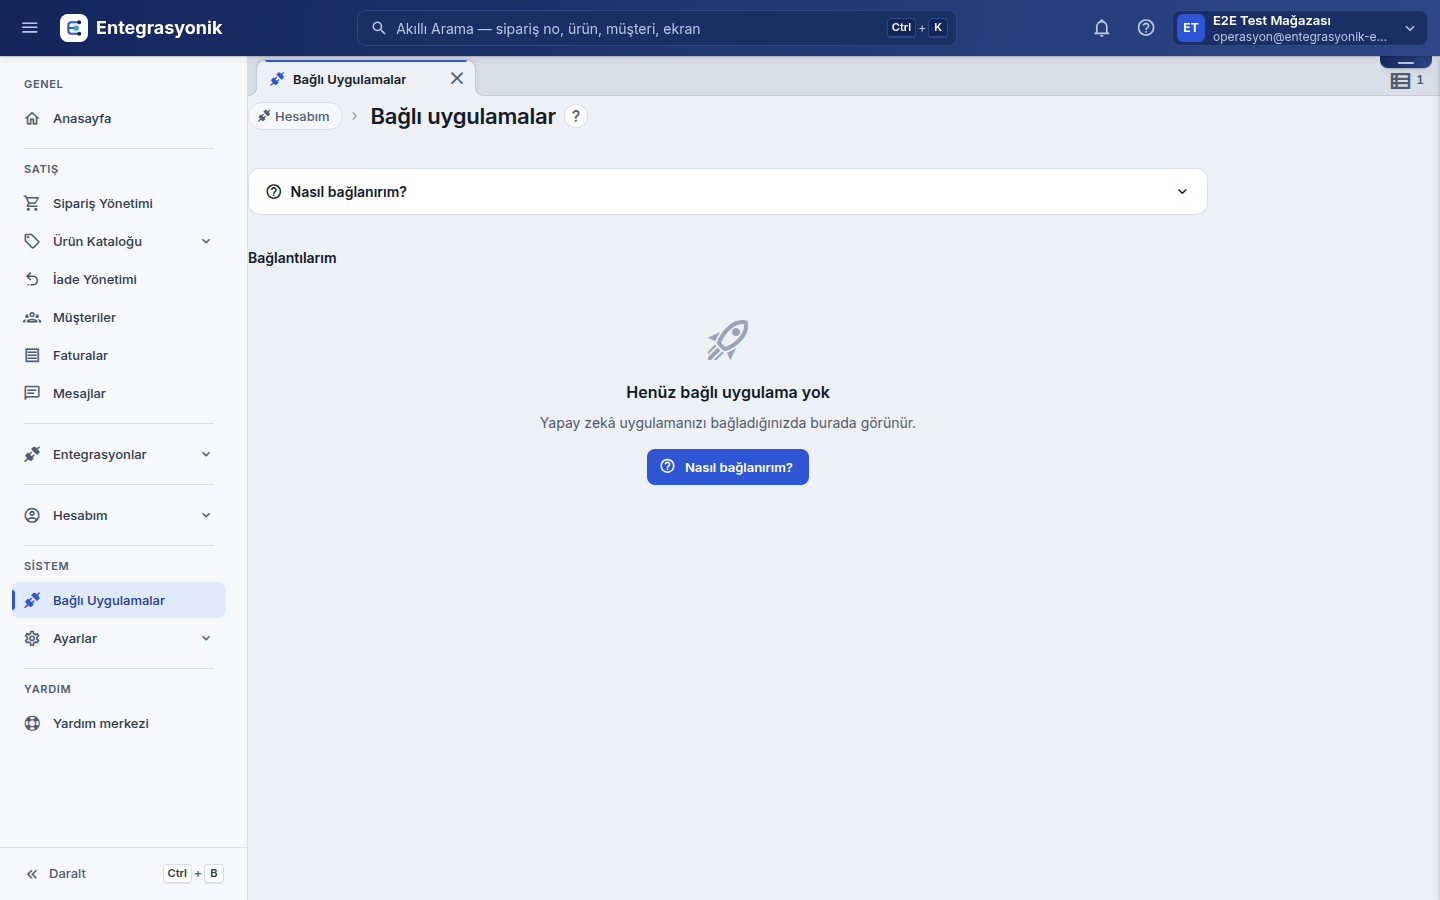
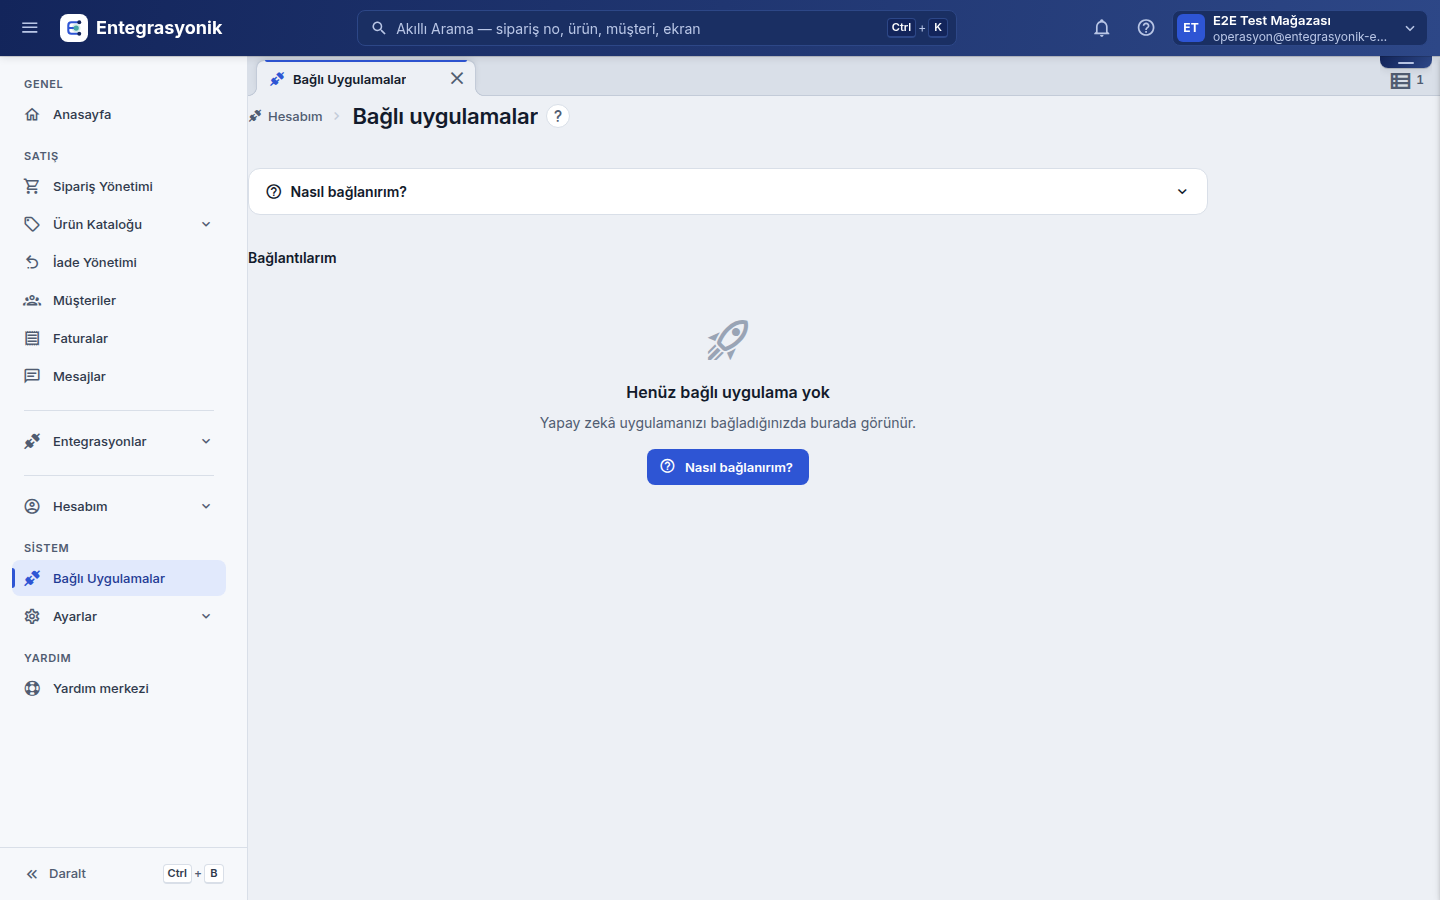
faz3-mcp-fe-cloud: fe-r2d son hali birlestirildi (cakisma yok) — kapilar yeniden yesil, inceleme goruntuleri yeni kabukla guncellendi
Claude-Session: https://claude.ai/code/session_01E1xmPHMv7Z8mzd3n66pC6F

Changed region(s): [[0.0, 0.1244, 0.125, 0.5289], [0.0, 0.56, 0.125, 0.8089], [0.1562, 0.0933, 0.4062, 0.1556]]

diff --git a/frontend/docs/mcp-fe-review/README.md b/frontend/docs/mcp-fe-review/README.md
@@ -1,8 +1,12 @@
 # MCP-6 önyüz (cloud/mcp-fe) — inceleme ve rapor
 
 Kaynaklar: `docs/cloud-contracts/MCP_UI_CONTRACT.md` 1.0.0 (kanonik), ADR-0035, K36–K38 / K47 / K48.
-Dal: `cloud/mcp-fe`. Taban `origin/cloud/fe-r2d` + `origin/main`. fe-r2d bu oturumda henüz bitmemişti (yalnız `before/`
-görüntüleri vardı, dal çalışırken ilerliyordu); iş onun üstünde yapıldı ve son hâli birleştirildi (çakışma yok). Ayar
+Dal: `cloud/mcp-fe`. Taban `origin/cloud/fe-r2d` + `origin/main`. fe-r2d başlangıçta bitmemişti (yalnız `before/`
+görüntüleri vardı); iş onun ara hâli üstünde yapıldı, bekleme döngüsü fe-r2d'nin bittiğini (`fe-r2d-review` sonrası
+görüntüleri) görünce SON hâli (`5c1e216`, fe-r2a dahil) birleştirildi — çakışma yok; tüm kapılar birleşme sonrası
+yeniden koşuldu (vitest 71 dosya / 1468 test, e2e 117 × 2 ardışık yeşil, build ×2). İnceleme görüntüleri yeni kabukla
+yeniden üretildi. Not: bir koşuda mobil "Ekranda aç → /orders" iddiası yük altında bir kez zaman aşımına düştü; sonraki
+iki tam koşuda tekrarlanmadı. Ayar
 dosyalarından yalnız `screens.ts`, `menu.ts` ve `pageHelp.ts`'e kayıt **eklendi**; mevcut ekranlara dokunulmadı.
 Yalnız mock kullanıldı; backend'e bağlanılmadı.
 
